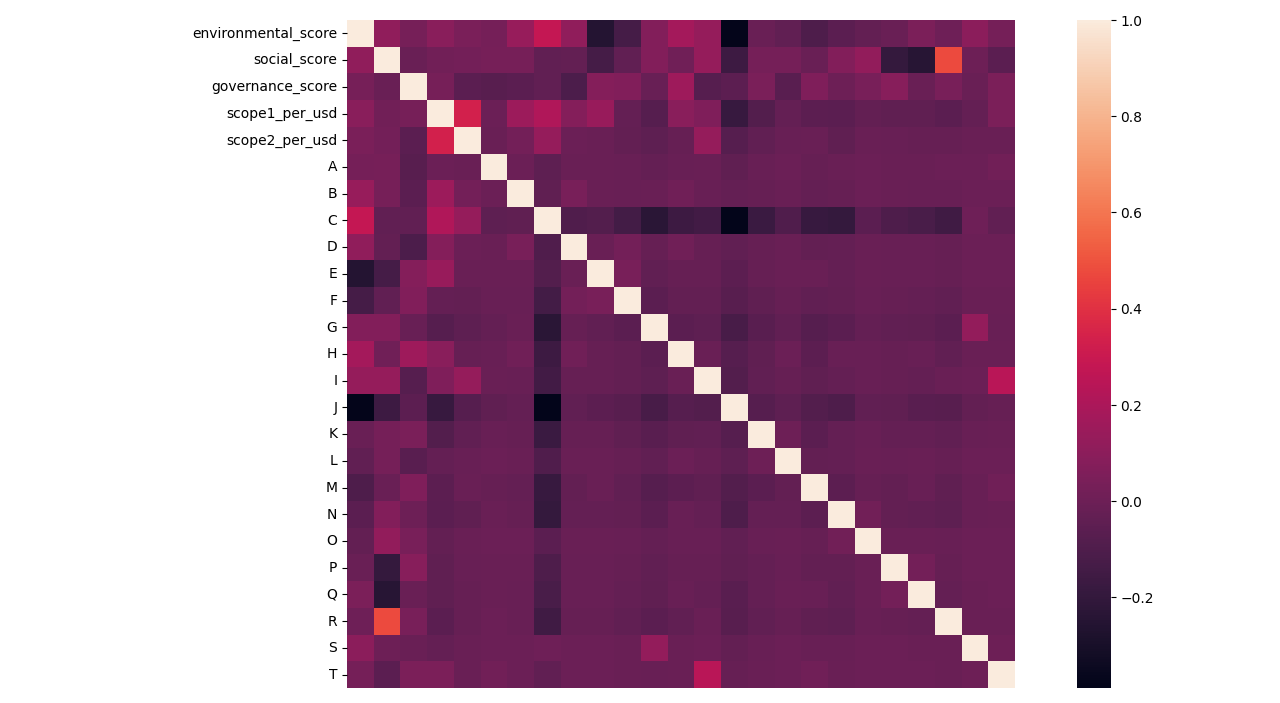
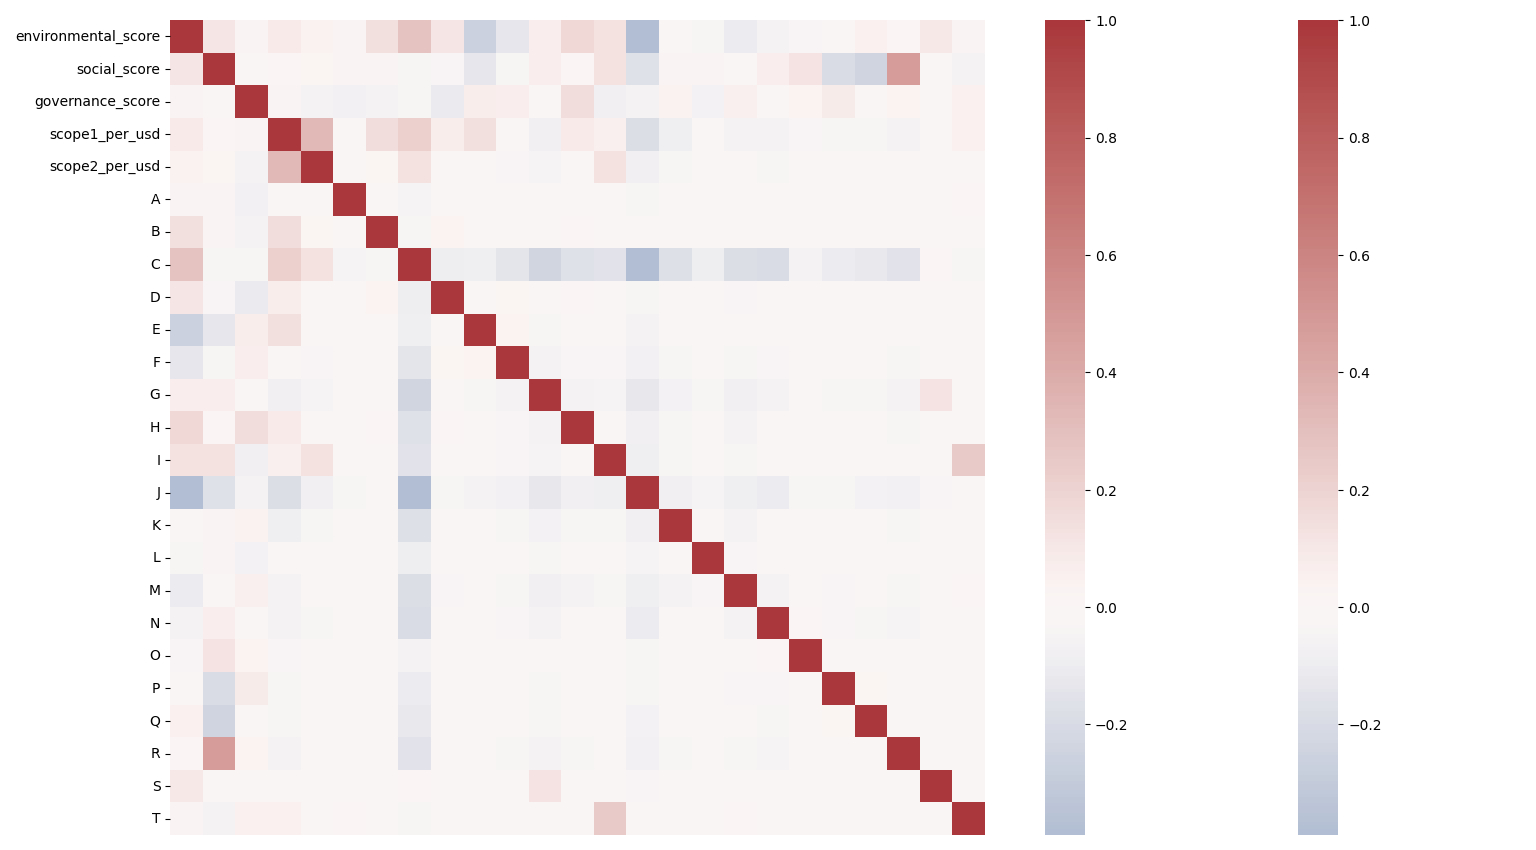
started tweaking heatmap

diff --git a/feature/corrcoef.py b/feature/corrcoef.py
@@ -7,6 +7,8 @@ rev = pd.read_csv('./data/revenue_distribution_by_sector.csv')
 sustain = pd.read_csv('./data/sustainable_development_goals.csv')
 train = pd.read_csv('./data/train.csv')
 
+# with scope per usd
+
 train = pd.merge(train,
                  rev.drop(['nace_level_1_name',
                            'nace_level_2_code',
@@ -43,7 +45,68 @@ train_coeff = pd.DataFrame(train_coeff, index=train.columns, columns=train.colum
 
 train_coeff.to_csv('./feature/train_coeff.csv')
 
-fig = sns.heatmap(train_coeff, cbar=True, square=True, xticklabels=False, yticklabels=True, annot=False).get_figure()
+vlag_cmap = sns.color_palette("vlag", as_cmap=True)
+
+fig = sns.heatmap(train_coeff,
+                  cbar=False,
+                  square=True,
+                  xticklabels=False,
+                  yticklabels=True,
+                  annot=False,
+                  cmap=vlag_cmap,
+                  center=0).get_figure()
 fig.tight_layout()
 fig.savefig('./feature/heatmap.png')
 fig.show()
+
+# with just scope
+
+train2 = pd.merge(train,
+                  rev.drop(['nace_level_1_name',
+                           'nace_level_2_code',
+                           'nace_level_2_name'], axis=1),
+                           how='inner', on='entity_id')
+
+train2['revenue_pct_new'] = train2.groupby(['entity_id', 'nace_level_1_code'])['revenue_pct'].transform('sum')
+train2 = train2.drop(['revenue_pct'], axis=1).drop_duplicates(keep='first')
+
+train2 = train2[['entity_id',
+               'environmental_score',
+               'social_score',
+               'governance_score',
+               'nace_level_1_code',
+               'revenue_pct_new',
+               'target_scope_1',
+               'target_scope_2']]
+
+train2_pivot = train2.pivot_table(
+    index='entity_id',
+    columns='nace_level_1_code', 
+    values='revenue_pct_new', 
+    aggfunc='first'
+)
+
+train2 = pd.merge(train2, train2_pivot, how = 'inner', on = 'entity_id').drop(['revenue_pct_new', 'entity_id', 'nace_level_1_code'], axis=1).drop_duplicates(keep='first').fillna(value=0)
+
+train2_t = train2.transpose()
+
+# stops working
+
+train2_coeff = np.corrcoef(train2_t)
+train2_coeff = pd.DataFrame(train2_coeff, index=train2.columns, columns=train2.columns)
+
+train2_coeff.to_csv('./feature/train2_coeff.csv')
+
+vlag_cmap = sns.color_palette("vlag", as_cmap=True)
+
+fig2 = sns.heatmap(train2_coeff,
+                  cbar=False,
+                  square=True,
+                  xticklabels=False,
+                  yticklabels=True,
+                  annot=False,
+                  cmap=vlag_cmap,
+                  center=0).get_figure()
+fig2.tight_layout()
+fig2.savefig('./feature/heatmap2.png')
+fig2.show()
